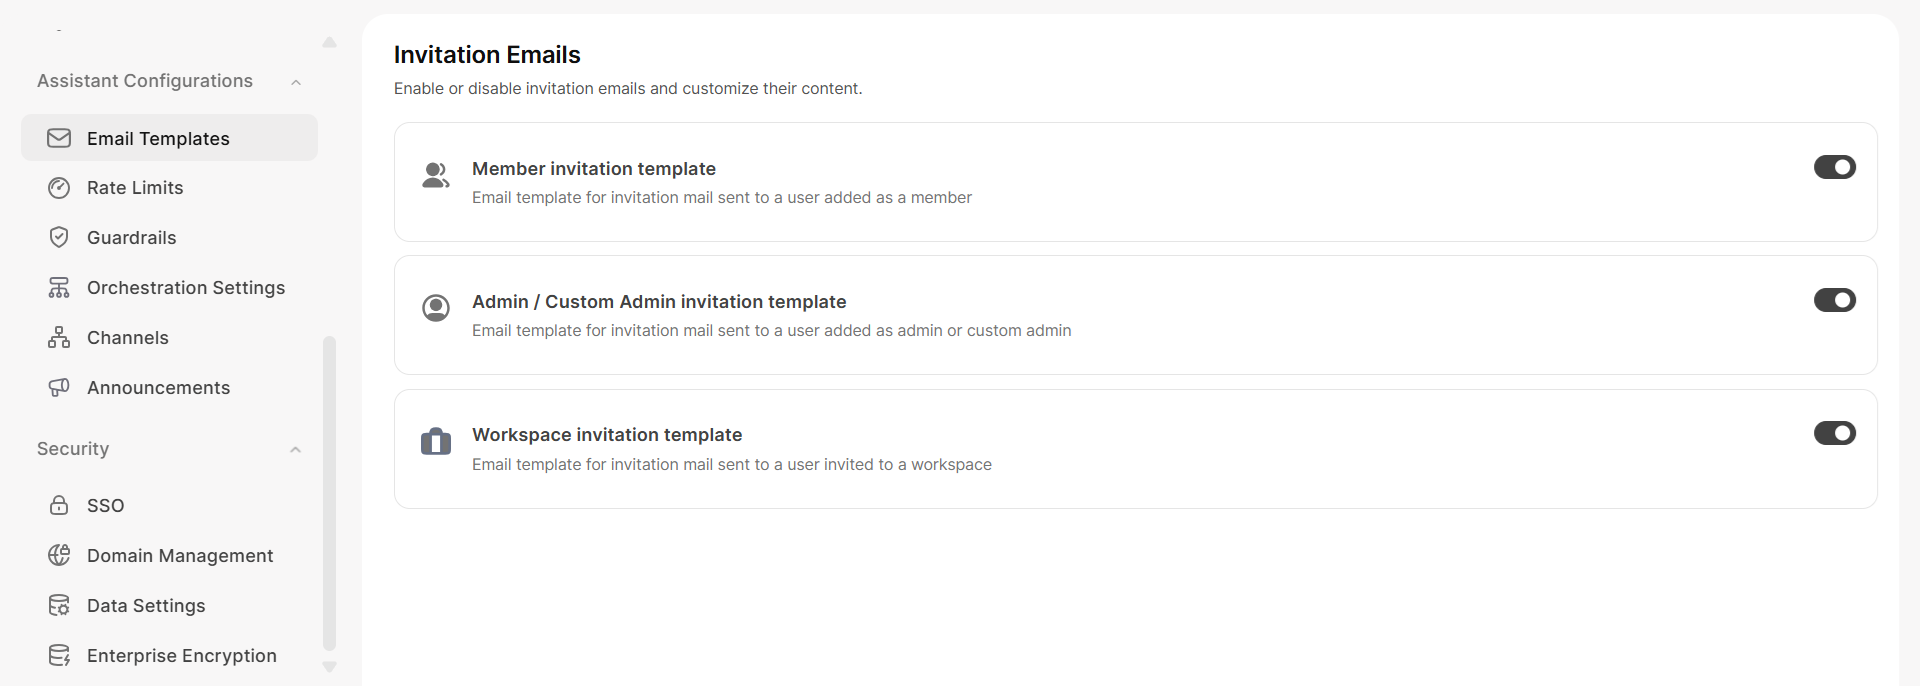
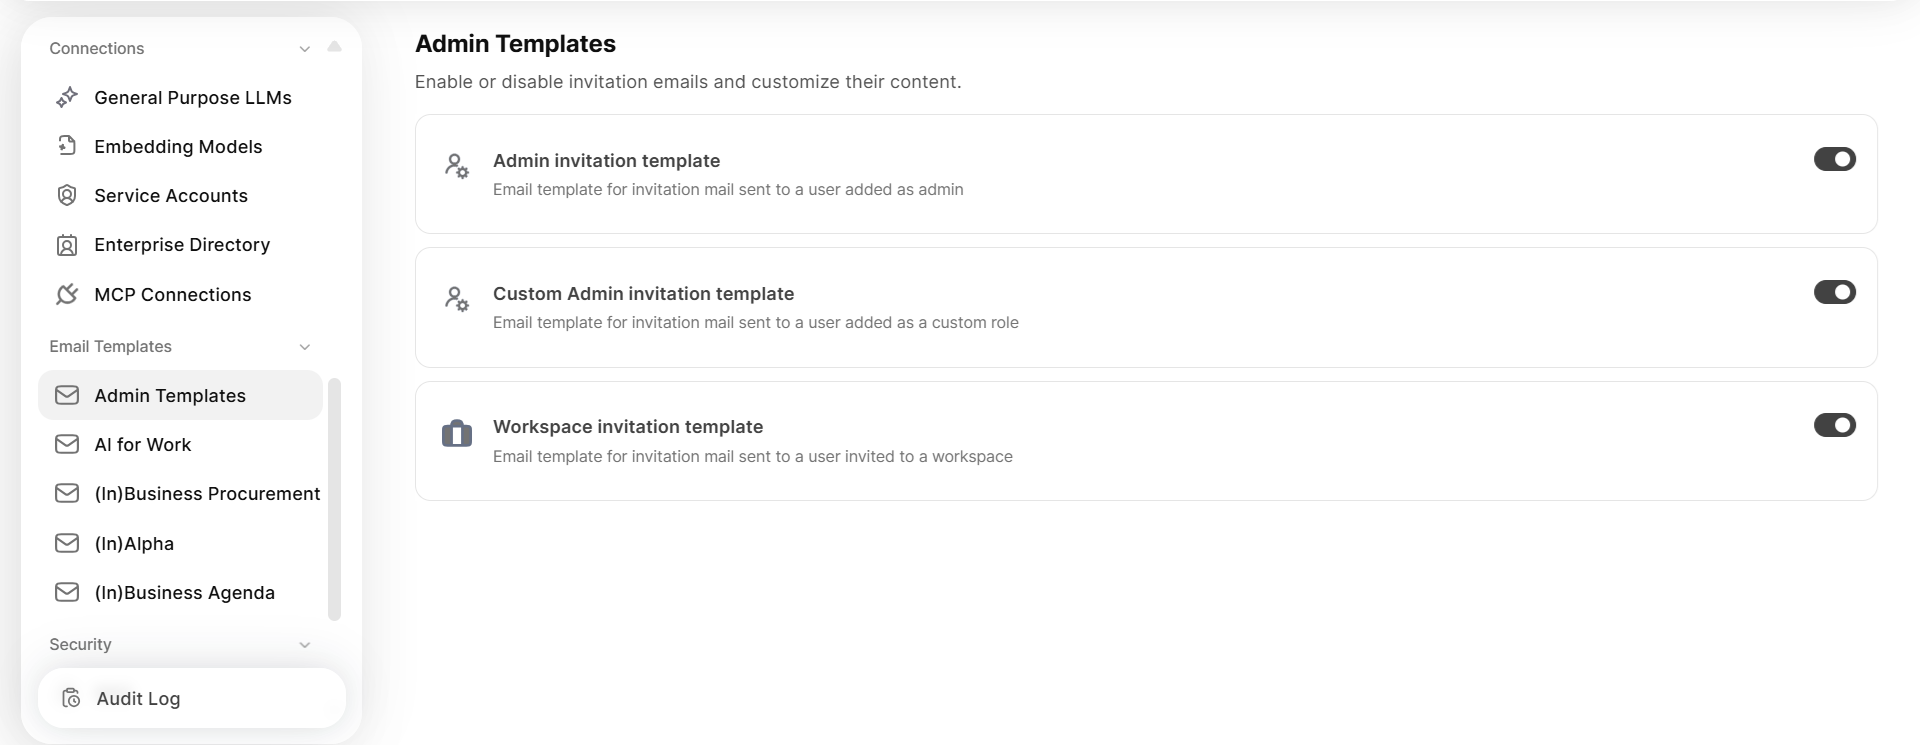
Improved existing docs

diff --git a/docs/ai-for-work/assist-configuration/email-template.md b/docs/ai-for-work/assist-configuration/email-template.md
@@ -1,13 +1,67 @@
-# Email Template
+# Email Templates
 
-Email templates assist in communicating with recently invited individuals to join the account. These templates are straightforward and customizable, allowing users to tailor the content to suit their needs.
+Email Templates allows you to customize invitation emails that you send to users when you add them to the account, workspace, or specific applications. These templates provide a consistent communication experience while allowing you to tailor messages to your organization's needs.
 
-* Users have full control over the content of the email. They can edit the body and subject, with the default subject and body available for convenience.
-* Users can click to view the email sent to the invited user and preview the drafted email, ensuring clarity and accuracy.
-* Do not edit the templated invited message and the accept invitation message to maintain consistency for critical communications.
-* The last custom admin can make final adjustments to the email template before sending it to ensure it meets the desired standards.
+You can use the Email Templates feature to:
+
+* Customize invitation emails for different user roles and applications.
+* Enable or disable email notifications for specific invitation types.
+* Preview emails before you send them to invited users.
+* Maintain consistent messaging across all applications that you provision to your account.
 
 <img src="../images/email-template.png" alt="email-template" title="email-template" style="border: 1px solid gray; zoom:80%;">
+
+## Accessing Email Templates
+
+To access Email Templates:
+
+1. Navigate to **Account Hub** from the top navigation bar.
+2. In the left sidebar, expand **Email Templates.**
+3. Select the template category you want to configure:
+    * **Admin Templates** - for account-level administrative invitations.
+    * Application-specific templates (e.g., **AI for Work**, **(In)Business Procurement**, **(In)Business Agenda**) - for application member invitations.
+
+### Admin Templates
+
+Admin Templates manage account-level invitations and include:
+
+**Admin invitation template**: Email template sent when a user is added as an Admin to the account. Use this to communicate administrative privileges and responsibilities.
+
+**Custom Admin invitation template**: Email template sent when a user is assigned a custom administrative role. Customize this to explain the specific permissions granted to the custom role.
+
+**Workspace invitation template**: Email template sent when a user is invited to join a specific workspace. This helps onboard members in project-specific environments.
+
+
+### Application Templates
+
+Each provisioned application has its own email template section. 
+
+For example: AI for Work
+
+**Member invitation template**: Email template sent when a user is added as a member to the AI for Work application.
+
+Similar templates exist for all other provisioned applications in your account.
+
+
+## Customizing Email Templates
+
+For each template, you can:
+
+1. **Enable or disable** the template using the toggle switch on the right side.
+2. **Click on the template** to open the editor.
+3. **Edit the subject line** to match your organization's tone.
+4. **Customize the email body** while keeping essential information intact.
+5. **Preview the email** to see how it will appear to the recipient.
+6. **Include links** to relevant resources (such as the Admin Console or application-specific guides) for easy access.
+
+
+## Manage Templates
+
+* The system organizes templates by application and shows all applications that you provision to your account.
+* The system provides default subject and body text for your convenience, but you can modify them as needed.
+* Changes that you make to templates apply to all future invitation emails of that type.
+* Admins and Custom Admins can make final adjustments to ensure templates meet organizational standards before the system sends invitations.
+* Each application maintains its own separate member invitation template.
 
 The email template includes a link to the Admin Console, ensuring that the invited member can easily access the necessary resources.
 

diff --git a/docs/ai-for-work/security/azure-service-accounts.md b/docs/ai-for-work/security/azure-service-accounts.md
@@ -48,13 +48,17 @@ The app registration requires specific Microsoft Graph permissions to access use
 
 Add the following permissions by searching for each one and checking its checkbox:
 
-* `User.ReadBasic.All`: Read basic profiles of all users
-* `People.Read.All`: Read all users' relevant people lists
-* `Group.Read.All`: Read all groups
-* `Directory.Read.All`: Read directory data
-* `User.Read.All`: Read all users' full profiles
-* `GroupMember.Read.All`: Read all group memberships
-* `AuditLog.Read.All`: Read audit log data
+Here's the table converted to markdown format:
+
+| **Scopes** | **Purpose** | **Required** |
+|------------|-------------|--------------|
+| **User.Read.All** | The application reads user profile attributes (name, email, job title, department) to identify users referenced in groups and audit logs. | **Yes** --- the application cannot resolve user identities without this scope. |
+| **Group.Read.All** | The application reads group metadata (ID, name, email) and resolves group references found in audit logs. | **Yes** --- the application needs this to identify groups that are affected by membership changes. |
+| **Directory.Read.All** | The application traverses directory relationships (e.g., manager lookup) in read-only mode to ensure reliable directory queries in large tenants. | **Yes** --- the application requires this for consistent directory reads across environments. |
+| **AuditLog.Read.All** | The application reads directory audit logs to detect group membership changes (users added to or removed from groups). This enables incremental sync without scanning the full directory. | **Yes** --- the application cannot detect group membership changes without this scope. |
+| **People.Read.All** | Organizational users search for people by name using the Microsoft Graph People API (/people). | **Optional** --- only required if the application enables people search functionality. |
+| **GroupMember.Read.All** | The application directly enumerates group members using group membership APIs. | **Optional** --- Group.Read.All covers this functionality and does not expand access. |
+| **User.ReadBasic.All** | The application retrieves basic user identity fields (display name, email, ID). | **Optional** --- redundant when User.Read.All is granted; included only for compatibility. |
 
 After selecting all permissions, click **Add Permissions** at the bottom of the panel.
 
@@ -67,7 +71,7 @@ Application permissions require administrator consent before they take effect.
 2. Review the permissions in the confirmation dialog.
 3. Click **Yes** to grant consent.
 
-Azure marks all permissions with a green checkmark, indicating admin consent was granted successfully.
+Azure marks all permissions with a green checkmark, indicating admin consent is granted successfully.
 
 ## Retrieve Authentication Credentials
 
